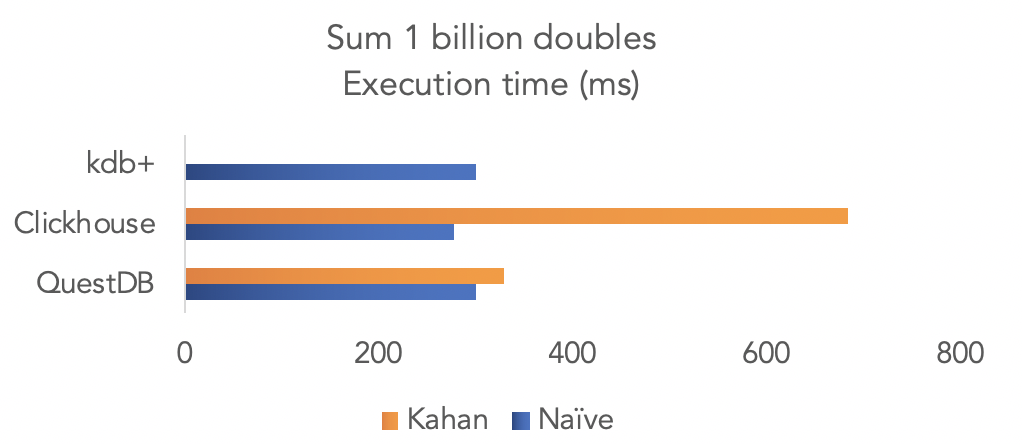
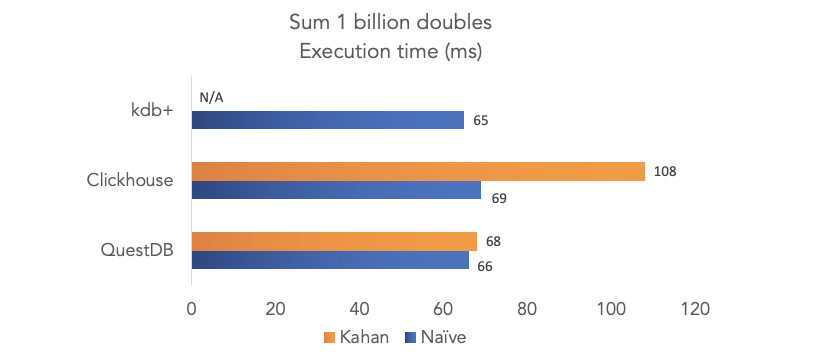
Deploy website
Deploy website version based on 0b446e8e6335d563903b60ac4e580c9bf2c94f34

diff --git a/blog/2020/05/01/faster-more-accurate-sums.html b/blog/2020/05/01/faster-more-accurate-sums.html
@@ -288,7 +288,7 @@ perform 4x as many operations, then as an illustration, our CPU usage time looks
 <p><img src="/blog/assets/thread-work.png" alt="alt-text"></p>
 <p><strong>We fill the gaps with extra work to get a more accurate result without affecting execution time.</strong></p>
 <p>Here are the results when calculating the sum of 1 billion doubles on a quad-core i7.</p>
-<p><img src="/blog/assets/bench-naive-kahan-neub.png" alt="alt-text"></p>
+<p><img src="/blog/assets/bench-naive-kahan-neum.png" alt="alt-text"></p>
 <p><strong>Granted, Kahan and Neumaier sum take slightly longer than the naive approach. However, the impact is a marginal 9%, not 400%!
 Also, Neumaier's algo, which is a little more precise in certain edge cases but adds more operations to the algorithm performs just as
 fast as Kahan for the same reason.</strong></p>
@@ -312,7 +312,7 @@ databases on an m5a.2xlarge AWS instance. We used QuestDB to generate a data fil
 <p>The results are as below.</p>
 <p><img src="/blog/assets/bench-kahan-kdb-clickhouse.png" alt="alt-text"></p>
 <p>The three databases are summing naively at roughly the same speed. However, this summation method is inaccurate.
-When using compensated sum (Kahan's algorithm), Clickhouse's performs twice as slow while QuestDB's performance only deteriorates by 9%.
+When using compensated sum (Kahan's algorithm), Clickhouse's performs 55% slower. QuestDB's performance deteriorates by 9%.
 kdb+ did not seem to offer compensated summation.</p>
 <p>We are conscious this benchmark is not representative of any particular use case. We chose this test because
 it is a basic query, and is trivial to reproduce. With more complex queries, we expect QuestDB's performance gap to compound.

diff --git a/blog/2020/05/01/faster-more-accurate-sums/index.html b/blog/2020/05/01/faster-more-accurate-sums/index.html
@@ -288,7 +288,7 @@ perform 4x as many operations, then as an illustration, our CPU usage time looks
 <p><img src="/blog/assets/thread-work.png" alt="alt-text"></p>
 <p><strong>We fill the gaps with extra work to get a more accurate result without affecting execution time.</strong></p>
 <p>Here are the results when calculating the sum of 1 billion doubles on a quad-core i7.</p>
-<p><img src="/blog/assets/bench-naive-kahan-neub.png" alt="alt-text"></p>
+<p><img src="/blog/assets/bench-naive-kahan-neum.png" alt="alt-text"></p>
 <p><strong>Granted, Kahan and Neumaier sum take slightly longer than the naive approach. However, the impact is a marginal 9%, not 400%!
 Also, Neumaier's algo, which is a little more precise in certain edge cases but adds more operations to the algorithm performs just as
 fast as Kahan for the same reason.</strong></p>
@@ -312,7 +312,7 @@ databases on an m5a.2xlarge AWS instance. We used QuestDB to generate a data fil
 <p>The results are as below.</p>
 <p><img src="/blog/assets/bench-kahan-kdb-clickhouse.png" alt="alt-text"></p>
 <p>The three databases are summing naively at roughly the same speed. However, this summation method is inaccurate.
-When using compensated sum (Kahan's algorithm), Clickhouse's performs twice as slow while QuestDB's performance only deteriorates by 9%.
+When using compensated sum (Kahan's algorithm), Clickhouse's performs 55% slower. QuestDB's performance deteriorates by 9%.
 kdb+ did not seem to offer compensated summation.</p>
 <p>We are conscious this benchmark is not representative of any particular use case. We chose this test because
 it is a basic query, and is trivial to reproduce. With more complex queries, we expect QuestDB's performance gap to compound.

diff --git a/blog/index.html b/blog/index.html
@@ -288,7 +288,7 @@ perform 4x as many operations, then as an illustration, our CPU usage time looks
 <p><img src="/blog/assets/thread-work.png" alt="alt-text"></p>
 <p><strong>We fill the gaps with extra work to get a more accurate result without affecting execution time.</strong></p>
 <p>Here are the results when calculating the sum of 1 billion doubles on a quad-core i7.</p>
-<p><img src="/blog/assets/bench-naive-kahan-neub.png" alt="alt-text"></p>
+<p><img src="/blog/assets/bench-naive-kahan-neum.png" alt="alt-text"></p>
 <p><strong>Granted, Kahan and Neumaier sum take slightly longer than the naive approach. However, the impact is a marginal 9%, not 400%!
 Also, Neumaier's algo, which is a little more precise in certain edge cases but adds more operations to the algorithm performs just as
 fast as Kahan for the same reason.</strong></p>
@@ -312,7 +312,7 @@ databases on an m5a.2xlarge AWS instance. We used QuestDB to generate a data fil
 <p>The results are as below.</p>
 <p><img src="/blog/assets/bench-kahan-kdb-clickhouse.png" alt="alt-text"></p>
 <p>The three databases are summing naively at roughly the same speed. However, this summation method is inaccurate.
-When using compensated sum (Kahan's algorithm), Clickhouse's performs twice as slow while QuestDB's performance only deteriorates by 9%.
+When using compensated sum (Kahan's algorithm), Clickhouse's performs 55% slower. QuestDB's performance deteriorates by 9%.
 kdb+ did not seem to offer compensated summation.</p>
 <p>We are conscious this benchmark is not representative of any particular use case. We chose this test because
 it is a basic query, and is trivial to reproduce. With more complex queries, we expect QuestDB's performance gap to compound.
